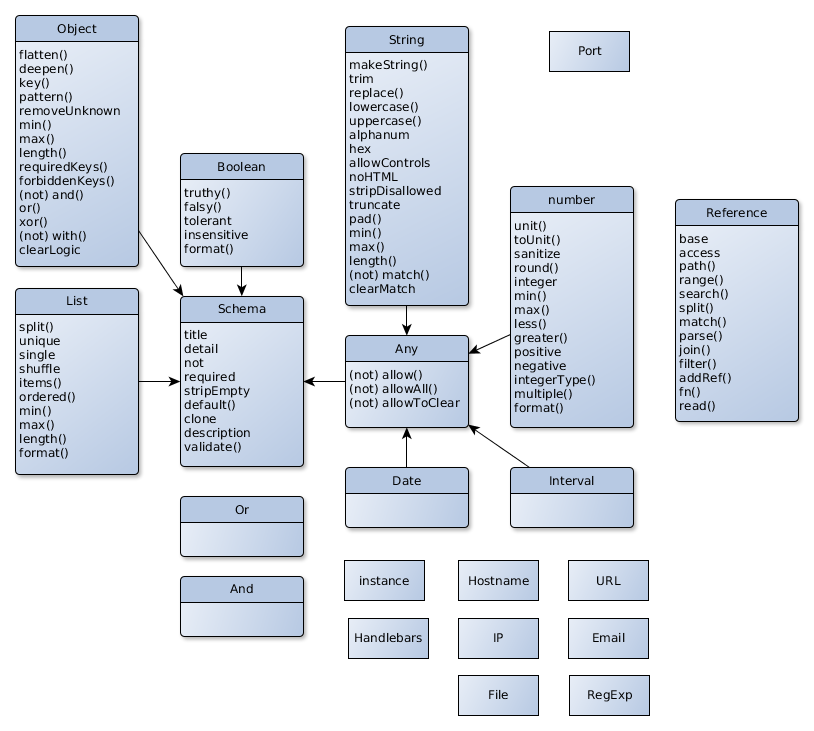
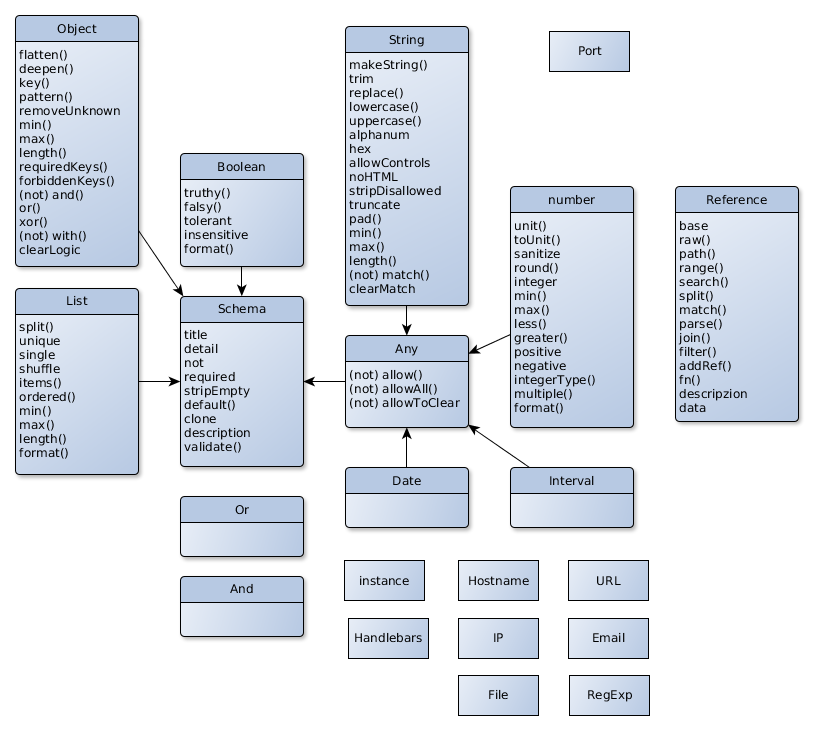
Cpmplete reference integration with base schema

Changed region(s): [[0.8292, 0.2408, 0.9828, 0.5718]]

diff --git a/src/Schema.js b/src/Schema.js
@@ -9,9 +9,9 @@ class Schema {
 
   title: string
   detail: string
-  _rules: Set<Array<Function>>
 
   // validation data
+  _rules: Set<Array<Function>>
   _setting: { [string]: any } // definition of object
   _check: { [string]: any } // resolved data
 
@@ -33,8 +33,8 @@ class Schema {
     return this
   }
   _setAny(name: string, value: any): this {
-    if (value) this._setting.default = value
-    else delete this._setting.default
+    if (value) this._setting[name] = value
+    else delete this._setting[name]
     return this
   }
 
@@ -56,29 +56,32 @@ class Schema {
     for (const key of Object.keys(set)) {
       this._check[key] = set[key]
     }
-    this._rules.forEach((rule) => { msg += rule[0].call(this) })
+    this._rules.forEach((rule) => {
+      if (rule[0]) msg += rule[0].call(this)
+    })
     return msg.trim()
   }
 
   validate(value: any, source?: string, options?: Object): Promise<any> {
     const data = value instanceof SchemaData ? value : new SchemaData(value, source, options)
-    // run rules seriously
-    let p = Promise.resolve()
+    // parallel resolving
+    const par = []
     // resolve references in value first
     if (data.value instanceof Reference) {
-      p = p.then(() => data.value.raw().data)
-      .then((res) => { data.value = res })
+      par.push(data.value.raw().data
+      .then((res) => { data.value = res }))
     }
     // resolve check settings
     this._check = {}
     const set = this._setting
     for (const key of Object.keys(set)) {
       if (set[key] instanceof Reference) {
-        p = p.then(() => set[key].data)
-        .then((res) => { this._check[key] = res })
+        par.push(set[key].data
+        .then((res) => { this._check[key] = res }))
       } else this._check[key] = set[key]
     }
-    // run the rules
+    let p = Promise.all(par)
+    // run the rules seriously
     this._rules.forEach((rule) => { p = p.then(() => rule[1].call(this, data)) })
     return p.then(() => {
       data.done(data.value)
@@ -88,11 +91,16 @@ class Schema {
   }
 
   _emptyDescriptor() {
-    return this._check.stripEmpty ? 'Empty values are set to `undefined`.\n' : ''
+    const check = this._check
+    if (check.stripEmpty instanceof Reference) {
+      return `Empty values are set to \`undefined\` depending on ${check.default.description}.\n`
+    }
+    return check.stripEmpty ? 'Empty values are set to `undefined`.\n' : ''
   }
 
   _emptyValidator(data: SchemaData): Promise<void> {
-    if (this._check.stripEmpty && (
+    const check = this._check
+    if (check.stripEmpty && (
       data.value === '' || data.value === null || (Array.isArray(data.value) && !data.value.length)
       || (Object.keys(data.value).length === 0 && data.value.constructor === Object)
     )) {
@@ -102,10 +110,16 @@ class Schema {
   }
 
   _optionalDescriptor() {
-    if (this._check.default) {
-      return `It will default to ${util.inspect(this._check.default)} if not set.\n`
+    const check = this._check
+    if (check.default) {
+      const value = check.default instanceof Reference
+      ? check.default.description : util.inspect(check.default)
+      return `It will default to ${value} if not set.\n`
     }
-    if (!this._check.required) return 'It is optional and must not be set.\n'
+    if (check.required instanceof Reference) {
+      return `It is optional depending on ${check.default.description}.\n`
+    }
+    if (!check.required) return 'It is optional and must not be set.\n'
     return ''
   }
 
@@ -113,7 +127,7 @@ class Schema {
     const check = this._check
     if (data.value === undefined && check.default) data.value = check.default
     if (data.value !== undefined) return Promise.resolve()
-    if (this._check.required) {
+    if (check.required) {
       return Promise.reject(new SchemaError(this, data,
       'This element is mandatory!'))
     }

diff --git a/test/mocha/reference.js b/test/mocha/reference.js
@@ -57,6 +57,15 @@ describe('reference', () => {
       }, done)
     })
 
+    it('should describe', () => {
+      const data = 'abc'
+      const ref = new Reference(data)
+      const schema = new Schema().default(ref)
+      // use schema
+      expect(helper.description(schema))
+      .to.equal('It will default to reference at abc if not set.')
+    })
+
   })
   // usage in schema -> schema
 

diff --git a/src/Reference.js b/src/Reference.js
@@ -59,6 +59,12 @@ class Reference {
     return this
   }
 
+  get description(): string {
+    let msg = `reference at ${this.base}`
+    if (this.access.length) msg += ` -> ${this.access.join(' -> ')}`
+    return msg
+  }
+
   get data(): Promise<any> {
     // run rules seriously
     let p = Promise.resolve(this.base)
